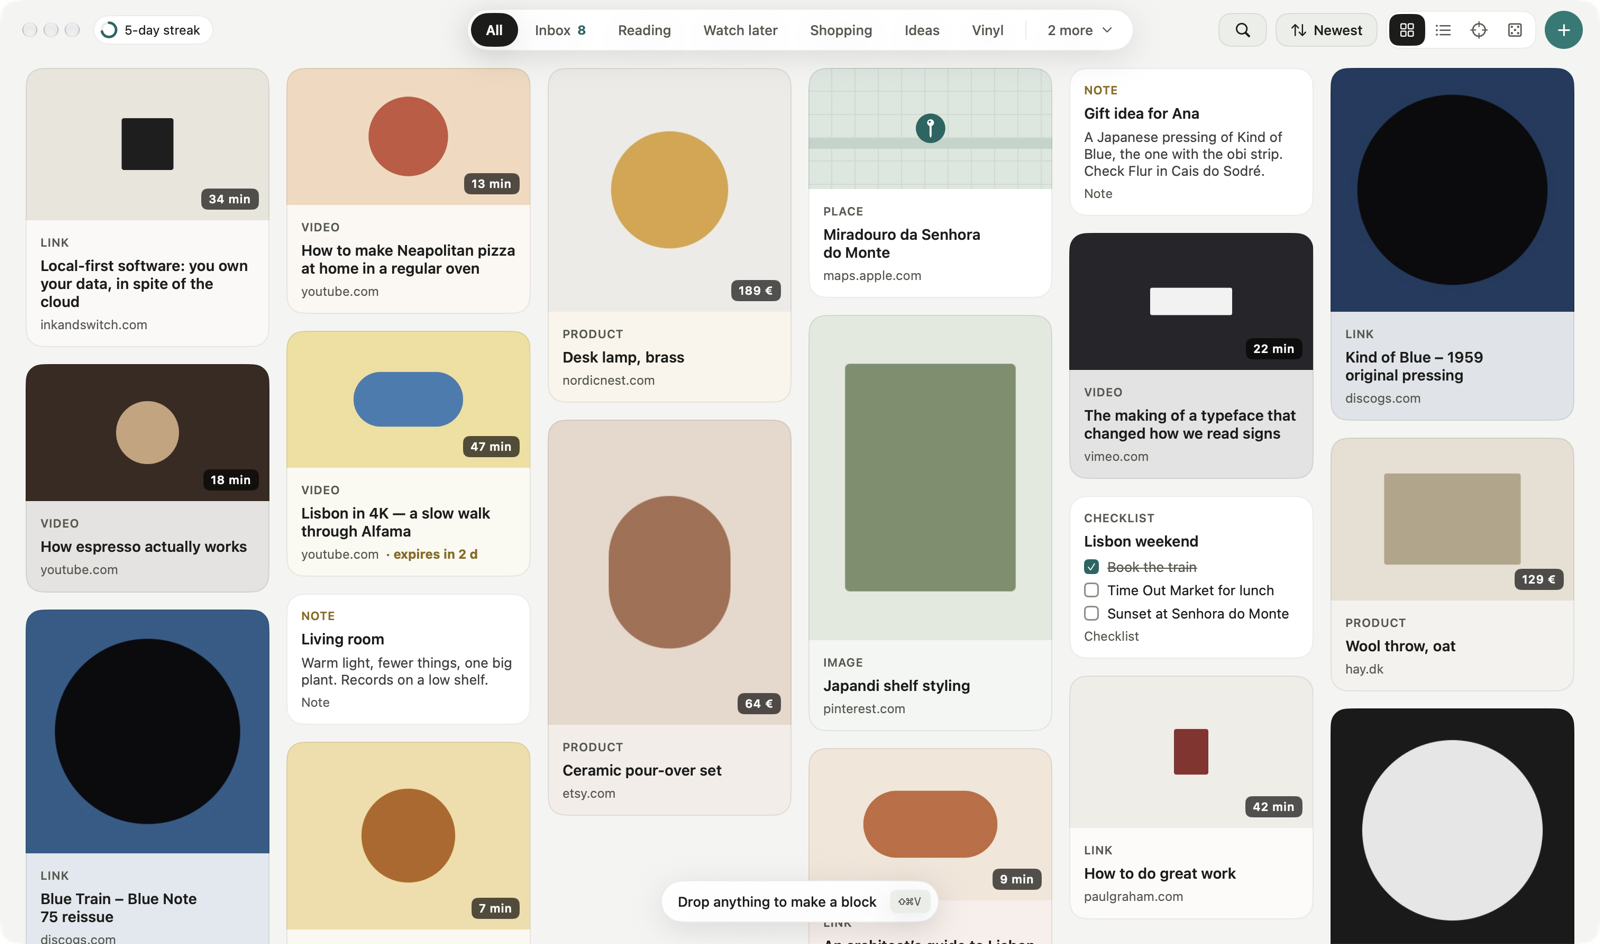
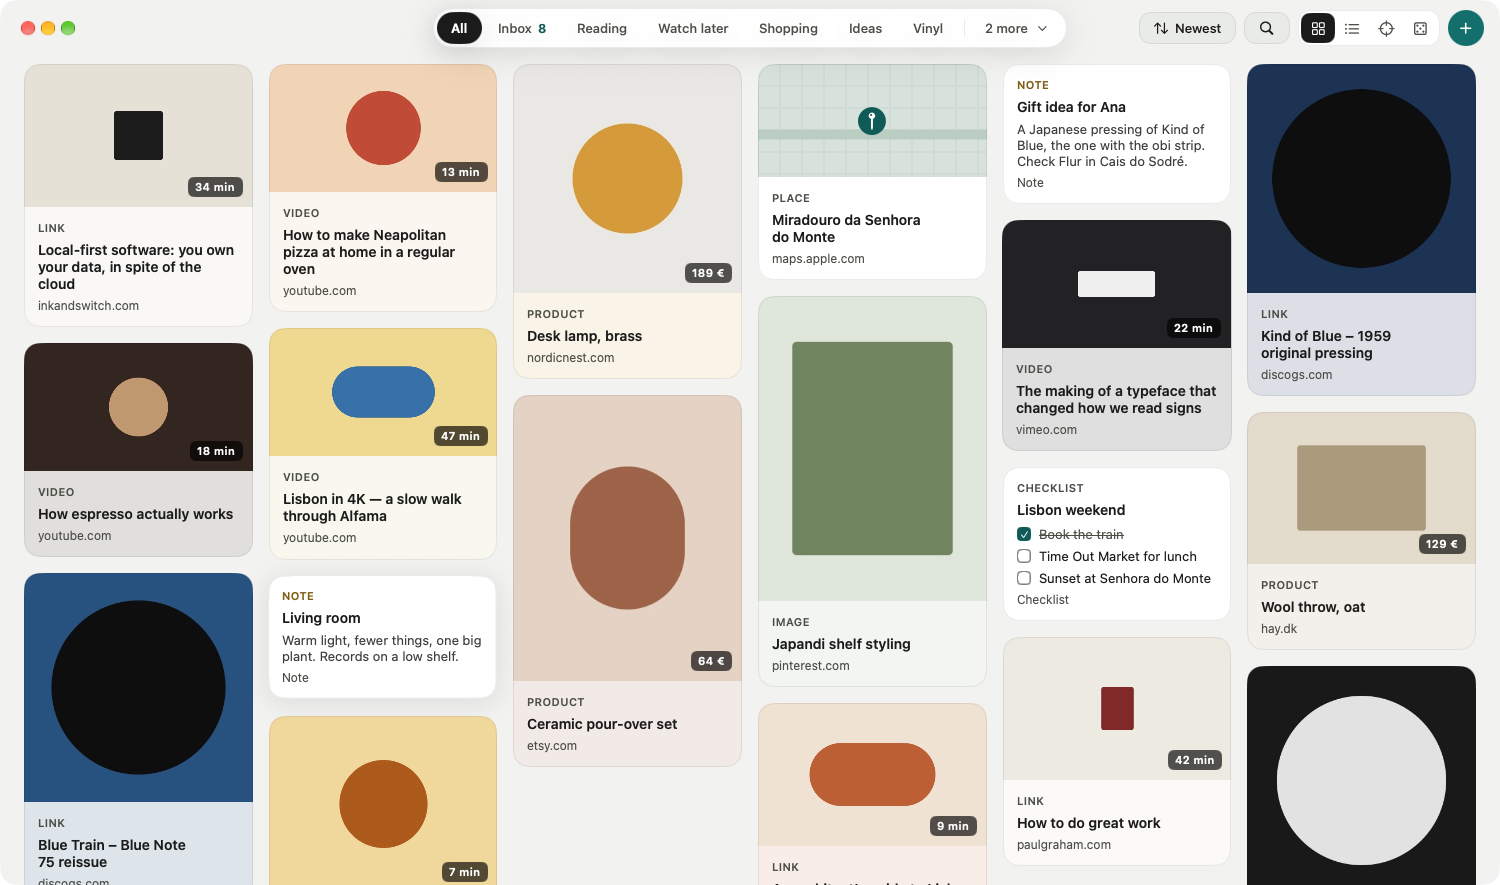
Docs: the README, contributing guide and screenshots match 1.2.2 (piles, the Go menu, no expiry)

diff --git a/Sources/Magpie/Debug/Snapshot.swift b/Sources/Magpie/Debug/Snapshot.swift
@@ -8,6 +8,7 @@ import SwiftUI
 /// writes <page>-light.png and <page>-dark.png for every SnapshotPage, and
 /// settings-<tab>-light.png and settings-<tab>-dark.png for every Settings tab, then quits.
 /// APP_SNAPSHOT_PAGES=all,details limits the pages (SnapshotPage). Add "settings" to include Settings.
+/// APP_SNAPSHOT_SIZE=1500x885 sets the window's size in points.
 enum Snapshot {
     static func runIfRequested(model: AppModel, openSettings: OpenSettingsAction) {
         let env = ProcessInfo.processInfo.environment
@@ -28,6 +29,13 @@ enum Snapshot {
             IOPMAssertionCreateWithName(kIOPMAssertionTypePreventUserIdleDisplaySleep as CFString,
                                         IOPMAssertionLevel(kIOPMAssertionLevelOn), "Snapshots" as CFString, &awake)
             try? FileManager.default.createDirectory(atPath: dir, withIntermediateDirectories: true)
+            // APP_SNAPSHOT_SIZE=1500x885: the window's size in points, for pictures of a known
+            // size (the README's screenshots). Without it the window keeps the size it opened at.
+            let size = (env["APP_SNAPSHOT_SIZE"] ?? "").split(separator: "x").compactMap { Double($0) }
+            if size.count == 2, let window = NSApp.windows.first(where: { $0.isVisible && !($0 is NSPanel) }) {
+                window.setContentSize(NSSize(width: size[0], height: size[1]))
+                window.center()
+            }
             try? await Task.sleep(for: .seconds(1.5))
             for mode in ["light", "dark"] {
                 NSApp.appearance = NSAppearance(named: mode == "light" ? .aqua : .darkAqua)

diff --git a/CONTRIBUTING.md b/CONTRIBUTING.md
@@ -19,7 +19,7 @@ Thanks for helping out!
   - `MainWindow/`: the window, its top bar, the drop target and the bottom hint (`MainView.swift`),
     and the "Saved to Inbox" message shown after a drop on the Dock icon (`DropHUD.swift`)
   - `Gallery/`: the masonry of cards and the right-click menu every Block shares (`GalleryView.swift`),
-    and dragging cards into your own order (`Reorder.swift`)
+    and dragging cards into your own order, and pinned piles along the top bar (`Reorder.swift`)
   - `Journal/`: the Journal, a numbered list of the same blocks (`JournalView.swift`). Sort
     orders are in `MagpieKit/BlockOrder.swift`
   - `SortInbox/`: Sort Inbox, one Inbox block at a time (`SortInboxView.swift`). The queue and the
@@ -37,7 +37,9 @@ Thanks for helping out!
     tag menu and prompts (`TagViews.swift`). Name rules are in `MagpieKit/Tags.swift`
   - `Details/`: the panel that slides in for a selected Block (`DetailsPanel.swift`), and the
     Choose Picture sheet (`PictureChooser.swift`; the page's pictures are found by `MagpieKit/PagePictures.swift`)
-  - `Collections/`: the "N more" panel to find, pin and create piles (`CollectionsPopover.swift`)
+  - `Collections/`: the "N more" panel to find, pin and create piles (`CollectionsPopover.swift`).
+    The app says **Pile**; the code says `BlockCollection` and `collection` (the stored model
+    and the export format keep their names, so no library needs a migration)
   - `Settings/`: the Settings window (⌘,), with General and Shortcuts tabs (`SettingsView.swift`)
   - `DesignKit/`: Magpie's own look. Tokens, type, icons, parts (buttons, cards, controls, the
     top bar) and the window chrome
@@ -52,8 +54,9 @@ Thanks for helping out!
   migration: every attribute optional or defaulted, every relationship optional with an
   inverse, no `@Attribute(.unique)` (duplicates are caught in code on `normalizedURL`), order
   in a `sortIndex: Double`, and images in `@Attribute(.externalStorage)`.
-- The app icon is `Icon/AppIcon.icon`, an Icon Composer file. `build.sh` compiles it with
-  `scripts/make-icon.sh` when it changes, and `scripts/icon-review.sh` renders it in every look.
+- The app icon is `Icon/AppIcon.icon`, an Icon Composer file, and `Icon/Assets.xcassets` holds the
+  app's accent color (the teal native controls take when the Mac's accent is Multicolor). `build.sh`
+  compiles both with `scripts/make-icon.sh` when they change, and `scripts/icon-review.sh` renders the icon in every look.
 
 ## Design rules
 
@@ -64,8 +67,12 @@ Every screen is built from the kit in `Sources/Magpie/DesignKit/`.
 - Type: `.kitType(.role)`, never `.font(.system…)`. Icons: `KitIconView(icon:)`, never
   `systemName:` outside `DesignKit/`.
 - Sizes: `Space.*` (a 4 pt grid) and `Metric.*`. A size off the grid becomes a named `Metric`.
+  `scripts/grid-lint.sh` fails on off-grid spacing and, outside `DesignKit/`, on a literal icon
+  size, shadow number or `CGFloat` constant.
 - Motion: `Motion.*`, and nothing animates when Reduce Motion is on.
-- Every action has a menu bar item and a keyboard shortcut.
+- Every action has a menu bar item and a keyboard shortcut. The menu bar stays short: File, Edit,
+  View, Block, Pile, Go, Window, Help. View opens each view; what you do inside Sort Inbox,
+  Rediscover and Lucky Dip goes in **Go**. Don't add a top-level menu for a new view.
 - Dark is the default. Check every change in light **and** dark.
 
 ## Checks
@@ -75,6 +82,7 @@ swift test                               # unit tests for MagpieKit
 scripts/selftest.sh                      # the app's real actions on a fresh store in /tmp
 APP_SELFTEST_NETWORK=1 scripts/selftest.sh   # also fetches real link previews
 scripts/snap.sh                          # every page in light and dark, in /tmp/Magpie-shots
+APP_SNAPSHOT_PAGES=details,settings scripts/snap.sh   # only the pages you changed
 scripts/grid-lint.sh                     # must print PASS
 ```
 
@@ -111,6 +119,6 @@ snapshots on every PR. Download the snapshots from the run's artifacts to review
 
 - Keep changes focused: one feature or fix per PR.
 - Match the existing code style, and use the words the app uses (Block, Pile, Inbox,
-  Lucky Dip…).
+  Lucky Dip…) in everything people read.
 - Make sure `./build.sh` prints no warnings and every check above passes.
 - Add a line to `CHANGELOG.md` under **Unreleased**.

diff --git a/README.md b/README.md
@@ -19,7 +19,7 @@
 
 ## Why
 
-Browser bookmarks pile up in folders like "watch later" and "ideas" and never get opened again.
+Browser bookmarks sink into folders like "watch later" and "ideas" and never get opened again.
 Magpie turns each save into a **Block** with a picture, keeps it in piles you can see,
 and then nudges you to read, watch and use what you saved.
 
@@ -35,10 +35,10 @@ and then nudges you to read, watch and use what you saved.
 - **Save anything.** Paste, drop or add links, images, videos, files, notes and checklists. Links get their title, picture and site name on their own, and videos, products and places show their length, price or a map. Don't like the picture? Choose another from the page
 - **Quick Save** (⌃⌥Space, anywhere) saves your browser's front tab (Safari, Chrome, Arc, Brave, Edge) or the clipboard without leaving what you're doing. You can also drop things onto the Dock icon, or turn a screenshot into a Block (⌃⌥S)
 - **Gallery and Journal.** See image-first cards, each tinted with its picture's color, or a dense list. Sort by newest, quickest, title, site, color, shuffle or your own order
-- **Piles and tags.** Nest piles, pin up to 5 to the top bar, and tag across them
+- **Piles and tags.** Nest piles, pin up to 5 to the top bar and drag them into the order you like, and tag across them
 - **Sort Inbox.** Go through new saves one at a time from the keyboard, with a suggested pile, until you reach Inbox zero
 - **Lucky Dip.** Can't decide what to read or watch? Pick a pile (or everything) and how much time you have, and Magpie picks one. You get two re-spins a day, then you commit
-- **Rediscover.** Five old saves a day to keep or archive.
+- **Rediscover.** Five old saves a day to keep or archive
 - **Search everything,** including the text inside your images
 - **Import your bookmarks** from Safari, Chrome or Firefox, with folders becoming piles
 - Dark by default, with Light or Match my Mac. Every action has a keyboard shortcut
